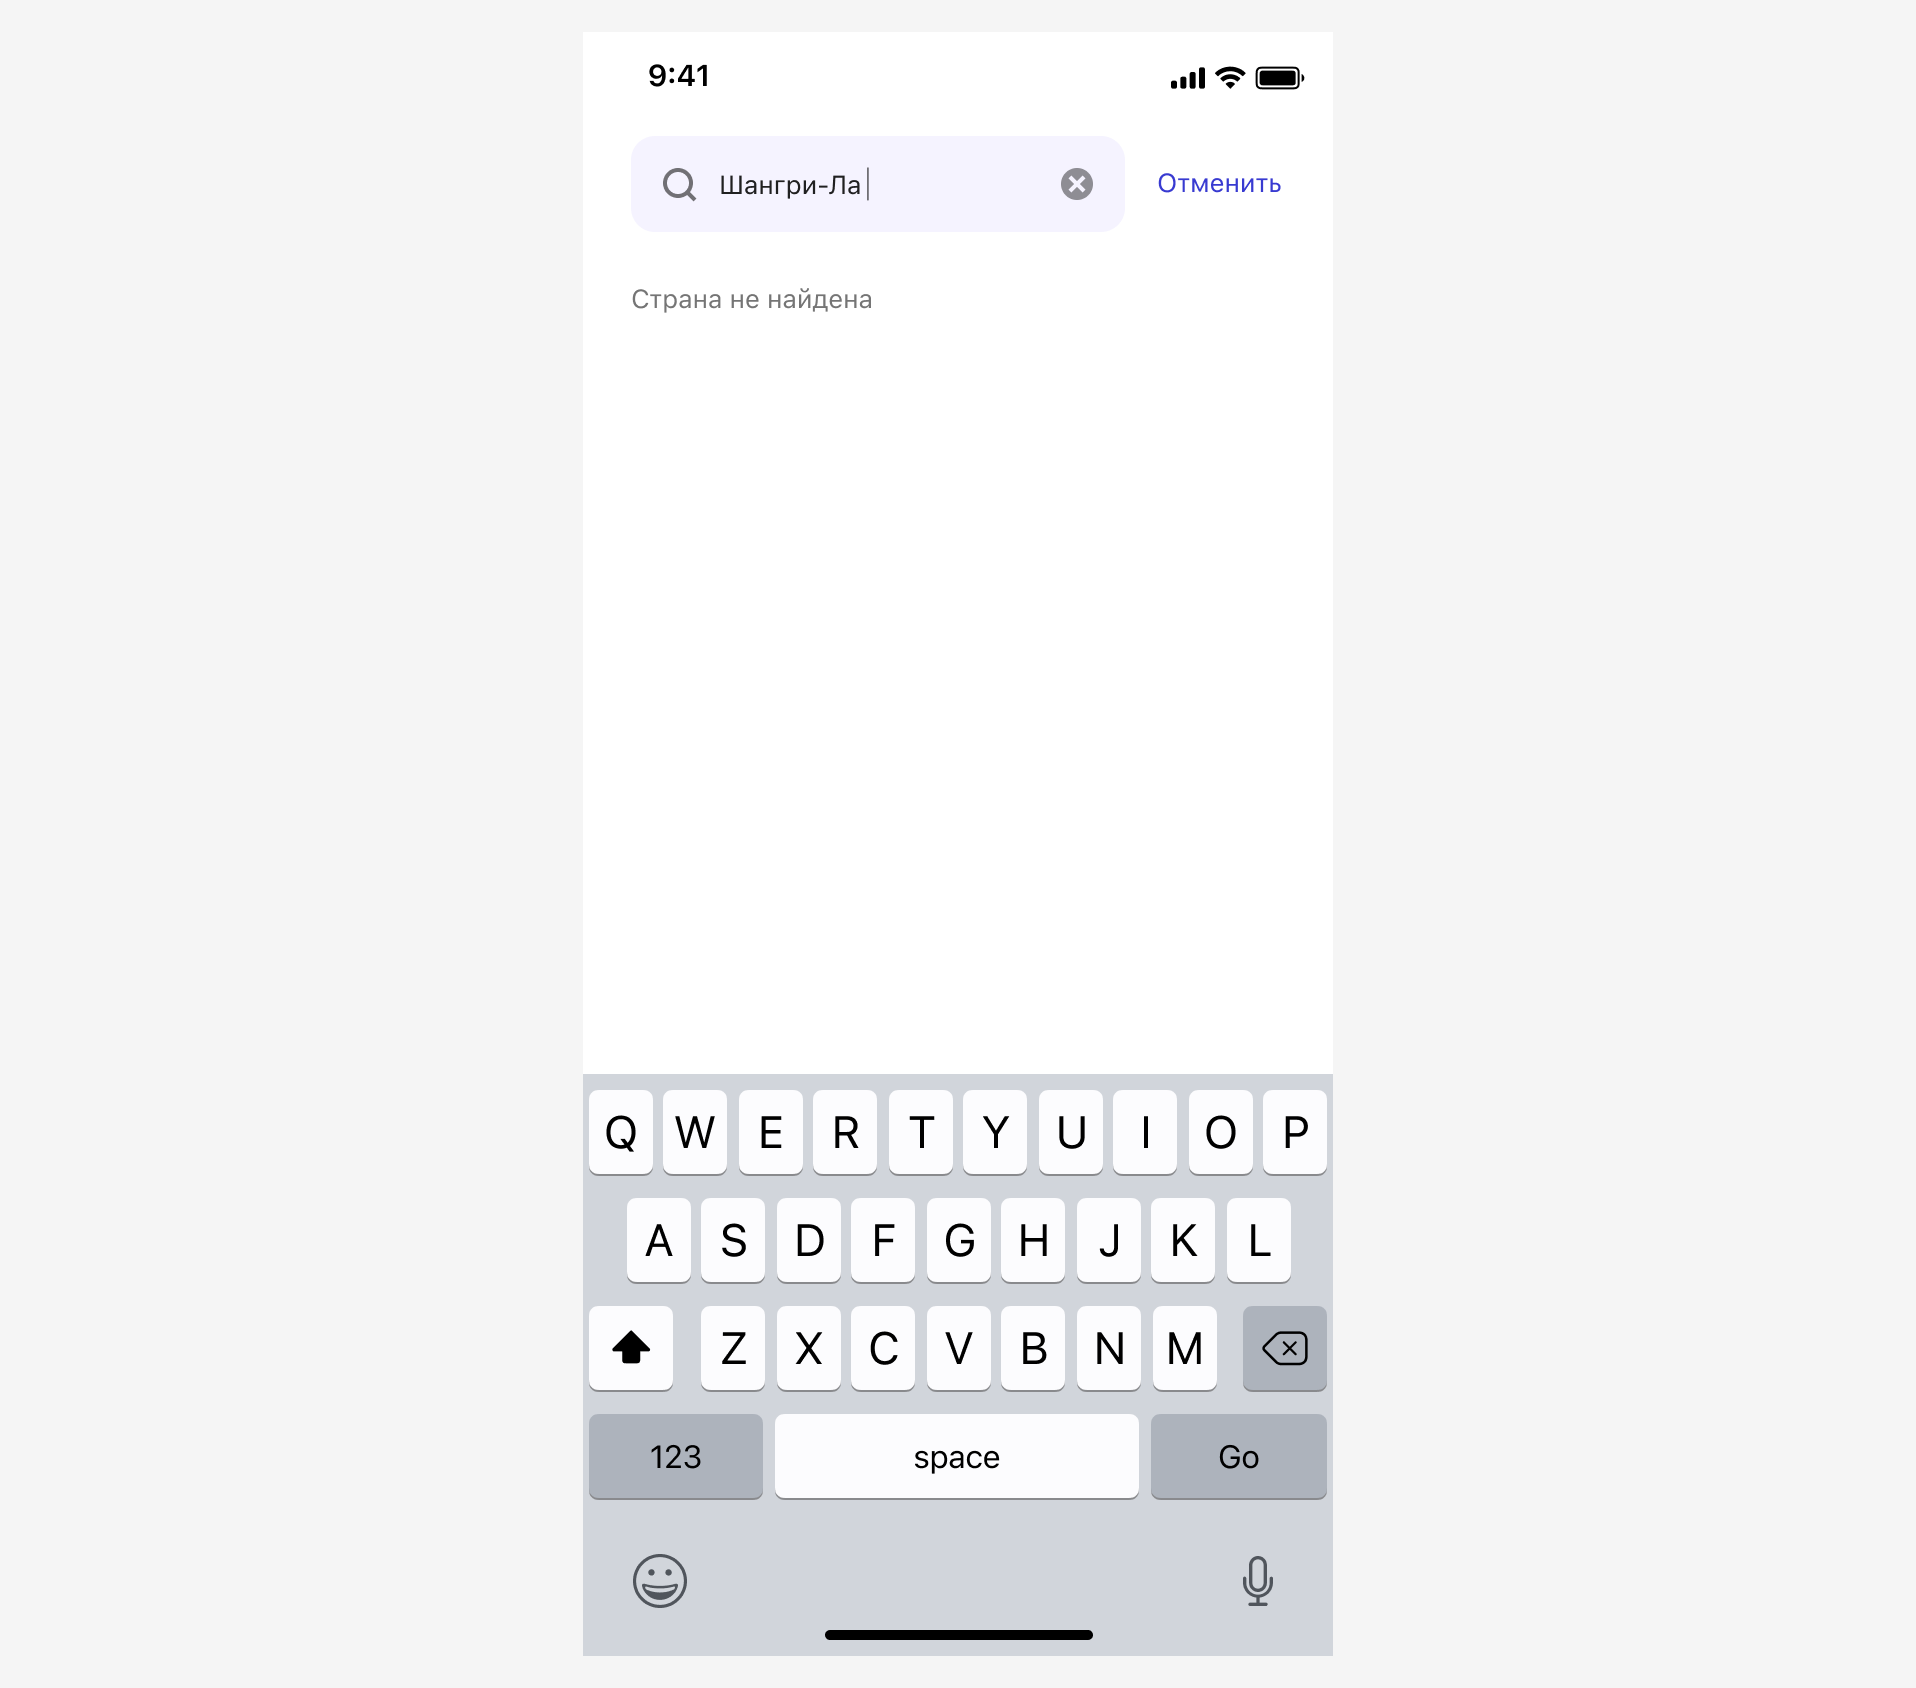
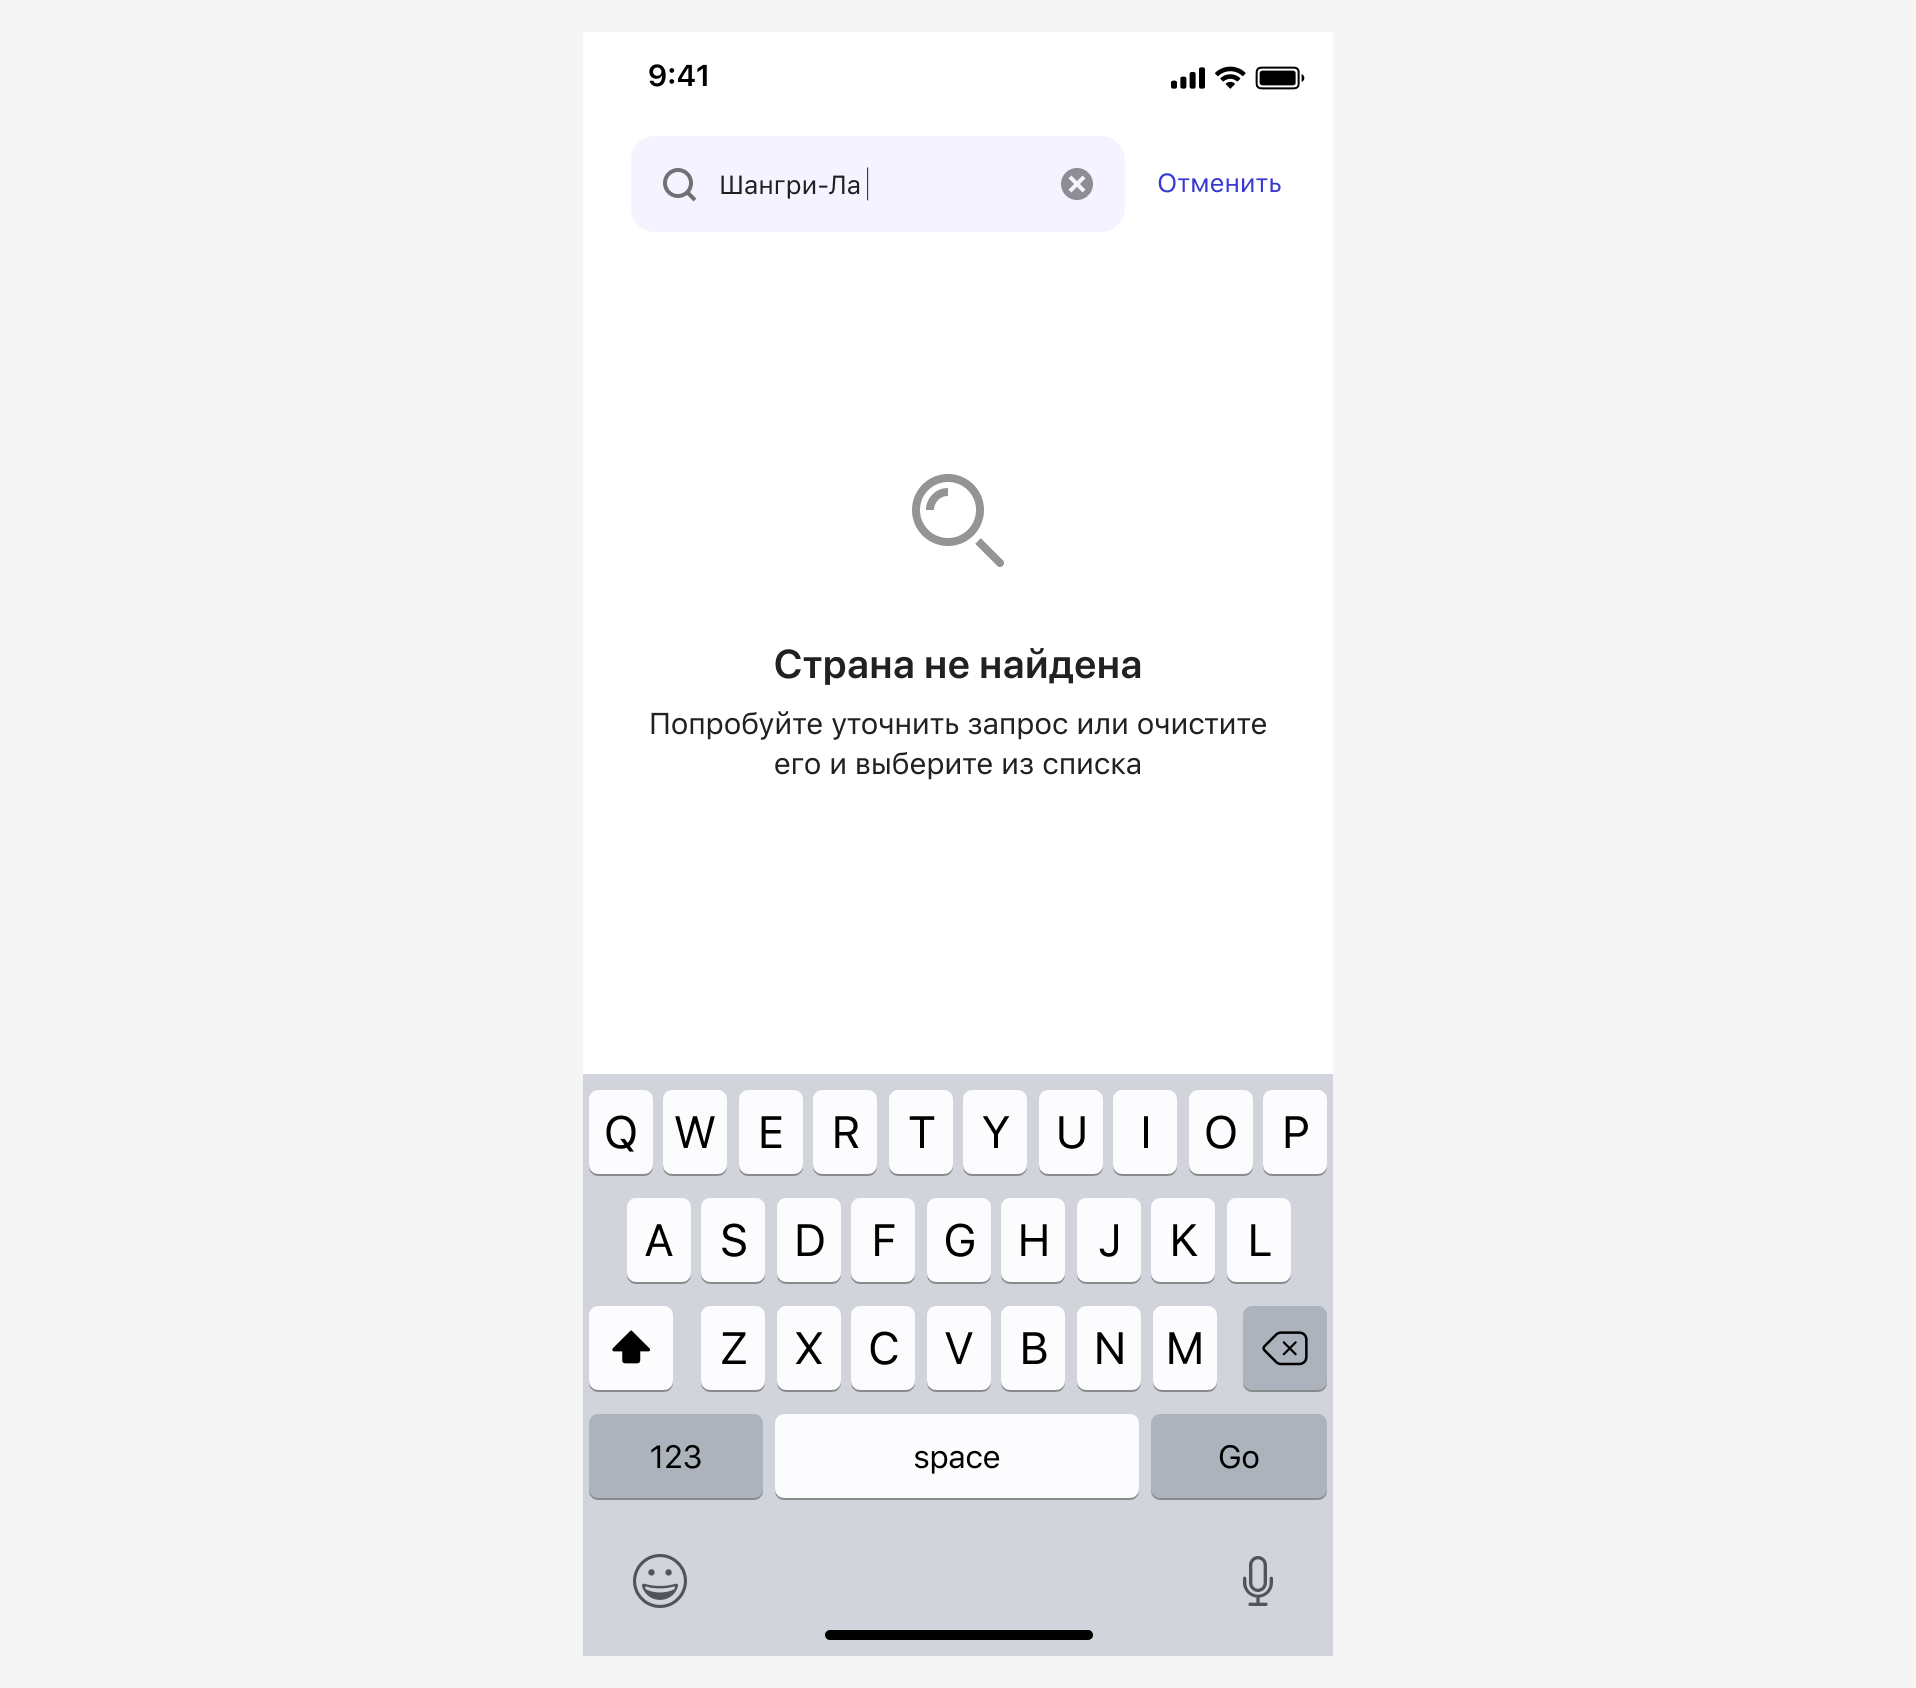
Обновил пустые состояния

diff --git a/changelog/1.2.1/index.md b/changelog/1.2.1/index.md
@@ -1,0 +1,7 @@
+---
+date: 2024-08-21T10:00
+---
+
+# 1.2.1
+
+- Во всех паттернах обновилось пустое состояние в соответствии с новым компонентом `Empty state`.
